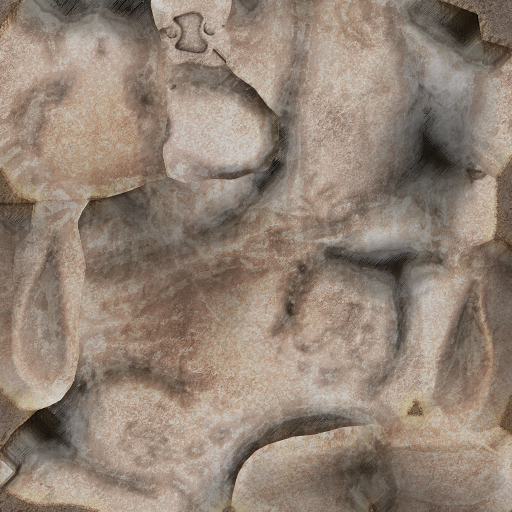
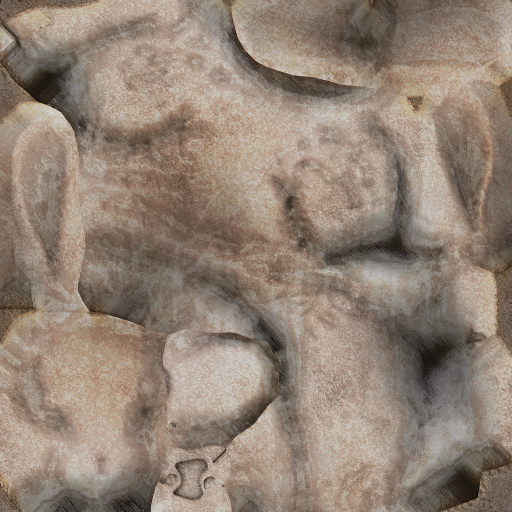
Light shader refactor. Now its working well.

diff --git a/example-simple/src/ExampleSimple.cpp b/example-simple/src/ExampleSimple.cpp
@@ -29,11 +29,11 @@ public:
 private:
 	CameraPersp camera;
 	MayaCamUI mayaCamera;
-	gl::Texture texture, enviroTex;
+	gl::Texture textureAlbedo, textureNormal, enviroTex;
 	Area viewport;
 
 	DeferredRenderer *deferred;
-	PointLight *movingLight;
+	PointLight *movingLightRed, *movingLightGreen, *movingLightBlue;
 	CubeMap *cubeMap;
 	TriMesh mesh;
 	gl::VboMesh vbo;
@@ -53,7 +53,9 @@ void DeferredExampleSimple::setup() {
 	mayaCamera.setCurrentCam(camera);
 
 	// Sample texture.
-	texture = gl::Texture(loadImage(loadAsset("bunny_albedo.png")));
+	textureAlbedo = gl::Texture(loadImage(loadAsset("bunny_albedo.png")));
+	textureNormal = gl::Texture(loadImage(loadAsset("bunny_normal.png")));
+
 	enviroTex = gl::Texture(loadImage(loadAsset("enviro.png")));
 
 	ObjLoader loader(loadAsset("bunny.obj"));
@@ -69,7 +71,6 @@ void DeferredExampleSimple::setup() {
 	deferred->composeShader = new gl::GlslProg(loadAsset("shaders/screenSpace.vert"), loadAsset("shaders/compose.frag"));
 
 	// Set enviro and cube.
-	deferred->setTextureEnviro(&enviroTex);
 	deferred->setCubeMap(new CubeMap(GLsizei(512), GLsizei(512),
 		Surface8u(loadImage(loadAsset("cube/x_plus.png"))),
 		Surface8u(loadImage(loadAsset("cube/y_plus.png"))),
@@ -79,18 +80,31 @@ void DeferredExampleSimple::setup() {
 		Surface8u(loadImage(loadAsset("cube/z_minus.png")))));
 
 	// Create lights.
-	deferred->createLight(Vec3f(8.0f, 0.0f, 0.0f), 16.0f);
+	/*deferred->createLight(Vec3f(8.0f, 0.0f, 0.0f), 16.0f);
 	deferred->createLight(Vec3f(-8.0f, 0.0f, 0.0f), 16.0f);
 	deferred->createLight(Vec3f(0.0f, 0.0f, 8.0f), 16.0f);
-	deferred->createLight(Vec3f(0.0f, 0.0f, -8.0f), 16.0f);
-	movingLight = deferred->createLight(Vec3f(0.0f, 0.0f, 0.0f), 32.0f);
+	deferred->createLight(Vec3f(0.0f, 0.0f, -8.0f), 16.0f);*/
+
+	movingLightRed = deferred->createLight(Vec3f(0.0f, 0.0f, 0.0f), 128.0f);
+	movingLightGreen = deferred->createLight(Vec3f(0.0f, 0.0f, 0.0f), 128.0f);
+	movingLightBlue = deferred->createLight(Vec3f(0.0f, 0.0f, 0.0f), 128.0f);
 }
 
 void DeferredExampleSimple::update() {
-	movingLight->setPosition(
+	movingLightRed->setPosition(
 		(float)cos(getElapsedSeconds()) * 32.0f, 
 		0.0f, 
 		(float)sin(getElapsedSeconds()) * 32.0f);
+
+	movingLightGreen->setPosition(
+		(float)cos(getElapsedSeconds() + 2) * 32.0f, 
+		0.0f, 
+		(float)sin(getElapsedSeconds() + 2) * 32.0f);
+
+	movingLightBlue->setPosition(
+		(float)cos(getElapsedSeconds() + 4) * 32.0f, 
+		0.0f, 
+		(float)sin(getElapsedSeconds() + 4) * 32.0f);
 }
 
 void DeferredExampleSimple::draw() {
@@ -101,12 +115,13 @@ void DeferredExampleSimple::draw() {
 	gl::clear(Color(0.125f, 0.0f, 0.0f));
 
 	// Deferred capturing.
-	deferred->setTextureAlbedo(&texture);
+	deferred->setTextureAlbedo(&textureAlbedo);
+	deferred->setTextureNormal(&textureNormal);
 	deferred->captureBegin();
-	/*for (size_t i = 0; i < deferred->getLights().size(); i++) {
+	for (size_t i = 0; i < deferred->getLights().size(); i++) {
 		Vec3f _v = deferred->getLights()[i]->getPosition();
-		gl::drawSphere(_v, .25f, 4);
-	}*/
+		gl::drawSphere(_v, 1.0f, 16);
+	}
 	//gl::drawCube(ci::Vec3f(0.0f, -2.0f, 0.0f), ci::Vec3f(64.0f, 1.0f, 64.0f));
 	//gl::drawSphere(Vec3f(0.0f, 0.0f, 0.0f), 16.0f, 128);
 	//gl::drawTorus(8.0f, 4.0f, 64, 64);
@@ -124,7 +139,7 @@ void DeferredExampleSimple::draw() {
 	deferred->compose();
 
 	// Finally, draw.
-	gl::draw(deferred->getBufferTexture(DeferredRenderer::ENVIRO), Rectf(0.0f, 0.0f, (float)getWindowWidth(), (float)getWindowHeight()));
+	gl::draw(deferred->getBufferTexture(DeferredRenderer::LIGHT), Rectf(0.0f, 0.0f, (float)getWindowWidth(), (float)getWindowHeight()));
 
 	// Draw debug text.
 	gl::enableAlphaBlending();

diff --git a/deferred-renderer/src/DeferredRenderer.cpp b/deferred-renderer/src/DeferredRenderer.cpp
@@ -94,11 +94,11 @@ gl::Texture DeferredRenderer::getBufferTexture(DeferredRenderer::BufferTexture t
 
 
 void DeferredRenderer::setTextureAlbedo(gl::Texture *texture) {
-	this->albedoTexture = texture;
+	this->textureAlbedo = texture;
 }
 
-void DeferredRenderer::setTextureEnviro(gl::Texture *texture) {
-	this->enviroTexture = texture;
+void DeferredRenderer::setTextureNormal(gl::Texture *texture) {
+	this->textureNormal = texture;
 }
 
 void DeferredRenderer::setCubeMap(CubeMap *map) {
@@ -117,14 +117,14 @@ void DeferredRenderer::captureBegin() {
 	gl::setViewport(Area(0, 0, width, height));
 
 	// Bind textures/else.
-	albedoTexture->bind(0);
-	enviroTexture->bind(1);
+	textureAlbedo->bind(0);
+	textureNormal->bind(1);
 	cubeMap->bindMulti(CUBE_MAP_LOC);
 
 	// Bind shader and set uniforms.
 	deferredShader->bind();
-	deferredShader->uniform("albedoTexture", 0); 
-	deferredShader->uniform("enviroTexture", 1); 
+	deferredShader->uniform("textureAlbedo", 0); 
+	deferredShader->uniform("textureNormal", 1); 
 	deferredShader->uniform("cubeMap", CUBE_MAP_LOC);
 	deferredShader->uniform("cameraDirection", camera->getViewDirection());
 	deferredShader->uniform("cameraEyePoint", camera->getEyePoint());
@@ -153,8 +153,8 @@ void DeferredRenderer::captureEnd() {
 	glPopMatrix();
 
 	// Undind albedo.
-	albedoTexture->unbind();
-	enviroTexture->unbind();
+	textureAlbedo->unbind();
+	textureNormal->unbind();
 
 	// Unbind shader.
 	deferredShader->unbind();

diff --git a/deferred-renderer/src/DeferredRenderer.h b/deferred-renderer/src/DeferredRenderer.h
@@ -35,7 +35,7 @@ public:
 	int getNumberOfLights();
 
 	void setTextureAlbedo(gl::Texture *texture);
-	void setTextureEnviro(gl::Texture *texture);
+	void setTextureNormal(gl::Texture *texture);
 	void setCubeMap(CubeMap *map);
 
 	void captureBegin();
@@ -66,7 +66,7 @@ private:
 	void setup(int width, int height);
 	CameraPersp *camera;
 	int width, height;
-	gl::Texture *albedoTexture, *enviroTexture;
+	gl::Texture *textureAlbedo, *textureNormal;
 
 	CubeMap *cubeMap;
 
